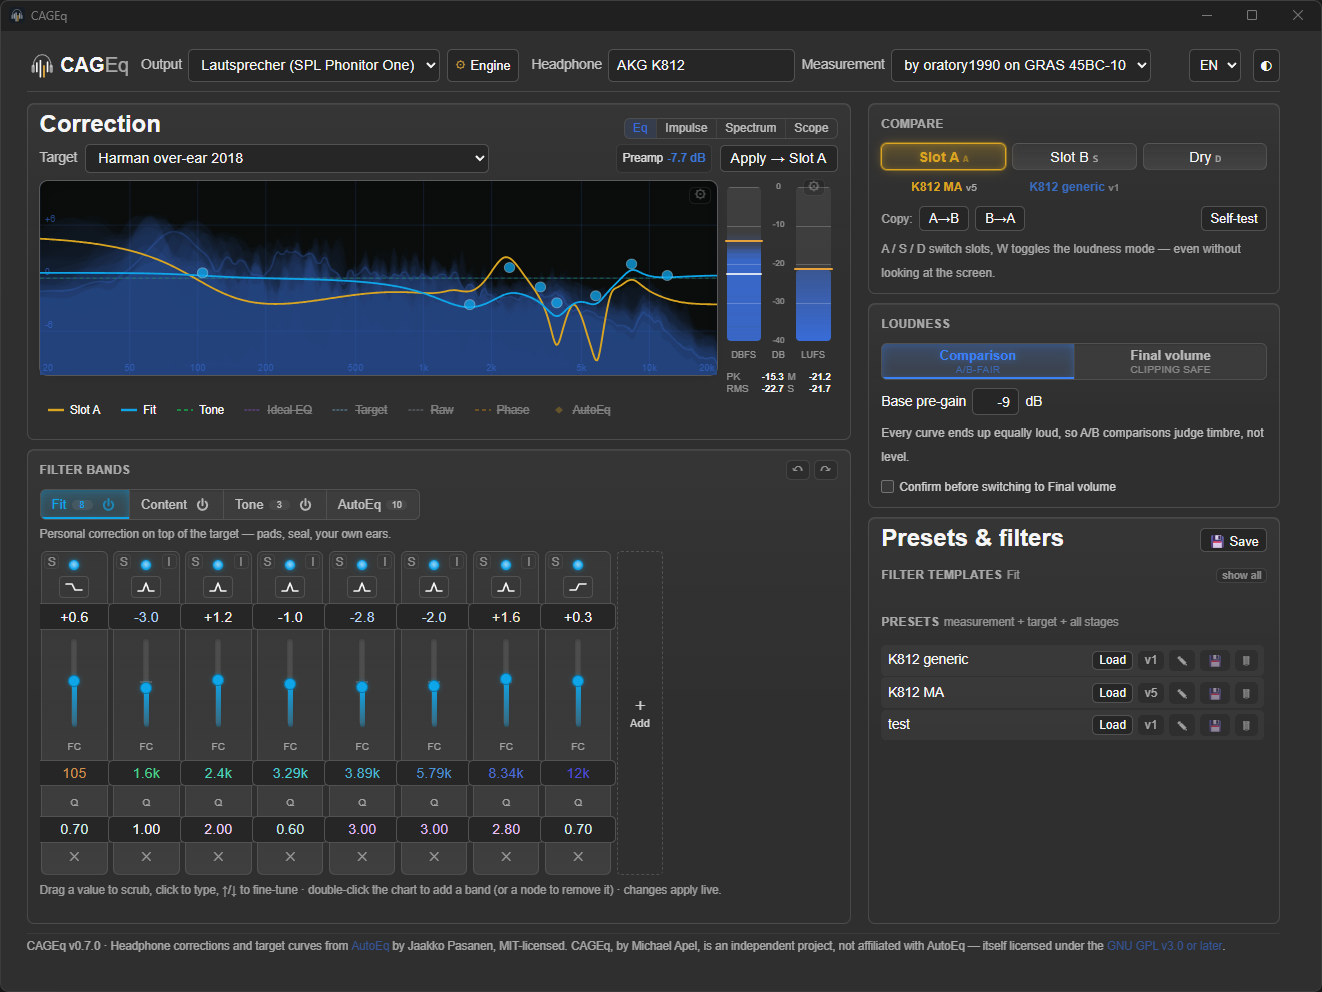
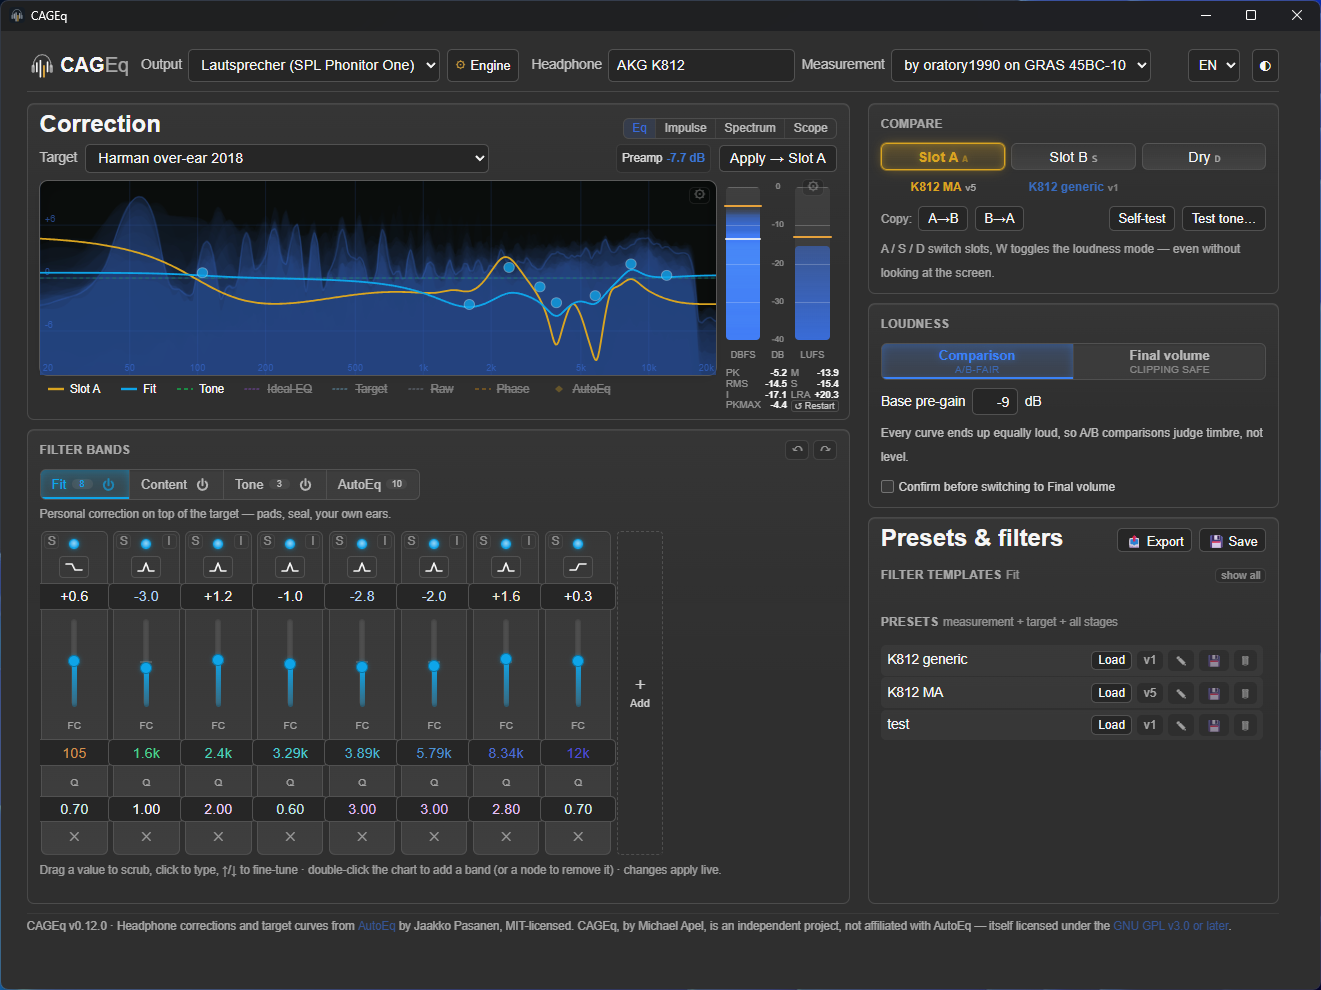
docs: update the main screenshot and add per-instrument ones
Meter.png, Scope.png, and SpectrumScope.png show the level/LUFS
meter, oscilloscope+vectorscope, and spectrum analyzer respectively,
incorporated into the "Built-in instrumentation" section next to the
prose describing each. screenshot.png (the main view) was refreshed
in place -- same filename, so the README's existing reference to it
picks it up automatically.

diff --git a/README.md b/README.md
@@ -49,13 +49,11 @@ still reads flat no matter how aggressive the correction is; each has its own to
 the raw post-EQ signal instead. The meters are the one exception and always show the real post-EQ
 output, since that's what actually needs measuring for safety.
 
-The level meter (phosphor-beam rendered, like the scopes) carries true-peak (BS.1770 oversampled —
-catches inter-sample overs a plain sample-peak read misses) and true-RMS marks, and a BS.1770
-momentary/short-term LUFS meter sits beside it, making the auto-loudness compensation this app is
-built around actually visible rather than just trusted to work.
-
 The scopes share a CRT-phosphor-style persistence/bloom renderer — a trailing glow that decays at
 a real, tunable rate, closer to a real analog scope's look than a plain clear-and-redraw.
+
+![The oscilloscope (with trigger/mix controls) and stereo vectorscope side by side, both rendered
+with the CRT-phosphor persistence trail.](docs/Scope.png)
 
 A few things about the spectrum analyzer specifically:
 
@@ -67,6 +65,18 @@ A few things about the spectrum analyzer specifically:
   frontend, so the display reads as continuous motion rather than a stepped, sample-and-hold look.
 * **Still readable on fast-moving signals**, since the CRT-phosphor persistence above integrates
   rapid change into a legible trail instead of flickering into noise.
+
+![The spectrum analyzer, with detected peaks marked and read out below the
+chart.](docs/SpectrumScope.png)
+
+The level meter (phosphor-beam rendered, like the scopes) carries true-peak (BS.1770 oversampled —
+catches inter-sample overs a plain sample-peak read misses) and true-RMS marks, and a full BS.1770
+loudness readout sits beside it — momentary, short-term, integrated, and loudness range (EBU Tech
+3342 LRA), plus a peak-max high-water mark, all restartable on demand — making the auto-loudness
+compensation this app is built around actually visible rather than just trusted to work.
+
+![The level/LUFS meter: peak and RMS bars, and the full BS.1770 readout (momentary, short-term,
+integrated, loudness range, peak max).](docs/Meter.png)
 
 ## Safety first
 
